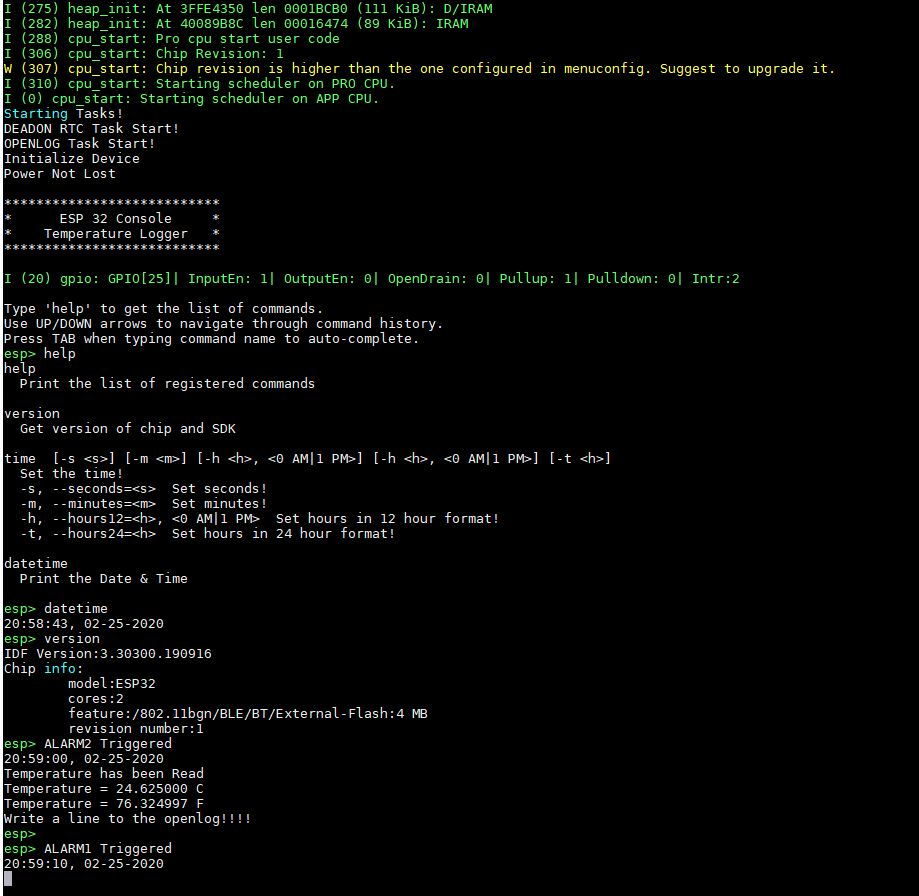
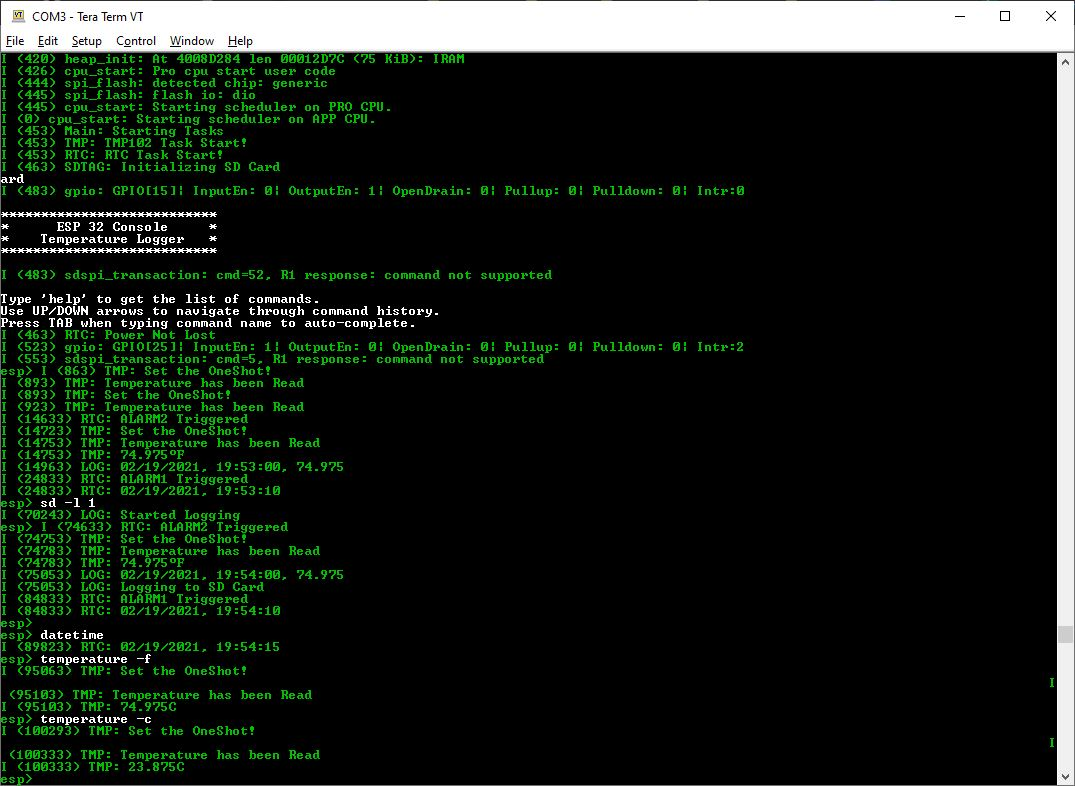
Update Screenshots

diff --git a/src/main.cpp b/src/main.cpp
@@ -17,6 +17,7 @@ int main()
 #include <string.h>
 #include "sdkconfig.h"
 #include "System_Tasks.h"
+#include "esp_log.h"
 
 extern "C"
 {
@@ -26,7 +27,7 @@ extern "C"
 // cppcheck-suppress unusedFunction
 void app_main()
 {
-    printf("Starting Tasks!\n");
+    ESP_LOGI("Main", "Starting Tasks");
     Create_Task_Queues();
     Create_Tasks();
 }

diff --git a/src/DEADONRTC.cpp b/src/DEADONRTC.cpp
@@ -97,7 +97,7 @@ void RTCDS3234::Begin()
     err = spi.Init(clock_speed);
     if (err != ESP_OK)
     {
-        printf("Spi Configuration Error\n");
+        ESP_LOGE("RTC", "Spi Configuration Error");
     }
 }
 

diff --git a/README.md b/README.md
@@ -48,22 +48,22 @@ A temperature logging device using the ESP32 Micro-controller with the IDF RTOS
 * time -h 7 -h 0 (Set clock to hour 7 AM)
 * time -t 13 (Set clock to hour 13)
 
-![alt text][console_cap1]
+![Console Screen Capture](images/Console_Capture.JPG)
 
-[console_cap1]: https://github.com/davidhudsont/Temperature_Logger_IDF/blob/master/images/Console_Capture.JPG "Console Screen Capture"
+![Console Screen Capture 2](images/Console_Capture2.JPG)
 
 ## Links
 
-## TMP102
+### TMP102
 
 * [TMP102 DataSheet](https://www.sparkfun.com/datasheets/Sensors/Temperature/tmp102.pdf)
 * [TMP102 Hookup Guide](https://learn.sparkfun.com/tutorials/tmp102-digital-temperature-sensor-hookup-guide)
 
-## DS3234 DeadOn RTC
+### DS3234 DeadOn RTC
 
 * [DS3234 DataSheet](https://www.sparkfun.com/datasheets/BreakoutBoards/DS3234.pdf)
 * [DS3234 Hookup Guide](https://learn.sparkfun.com/tutorials/deadon-rtc-breakout-hookup-guide)
 
-## SparkFun micro SD Card Breakout
+### SparkFun micro SD Card Breakout
 
 * [Micro SD Card Breakout](https://www.sparkfun.com/products/544)
